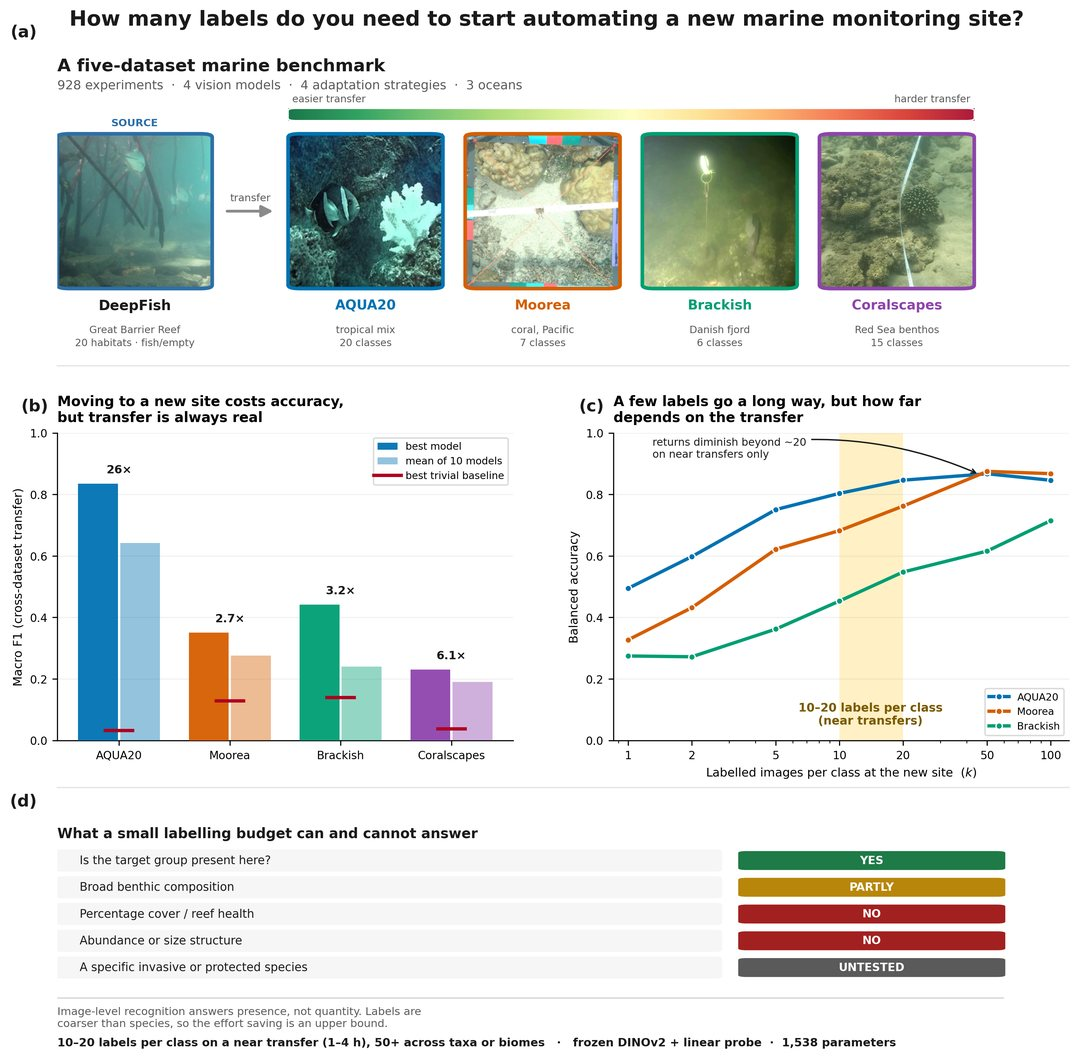
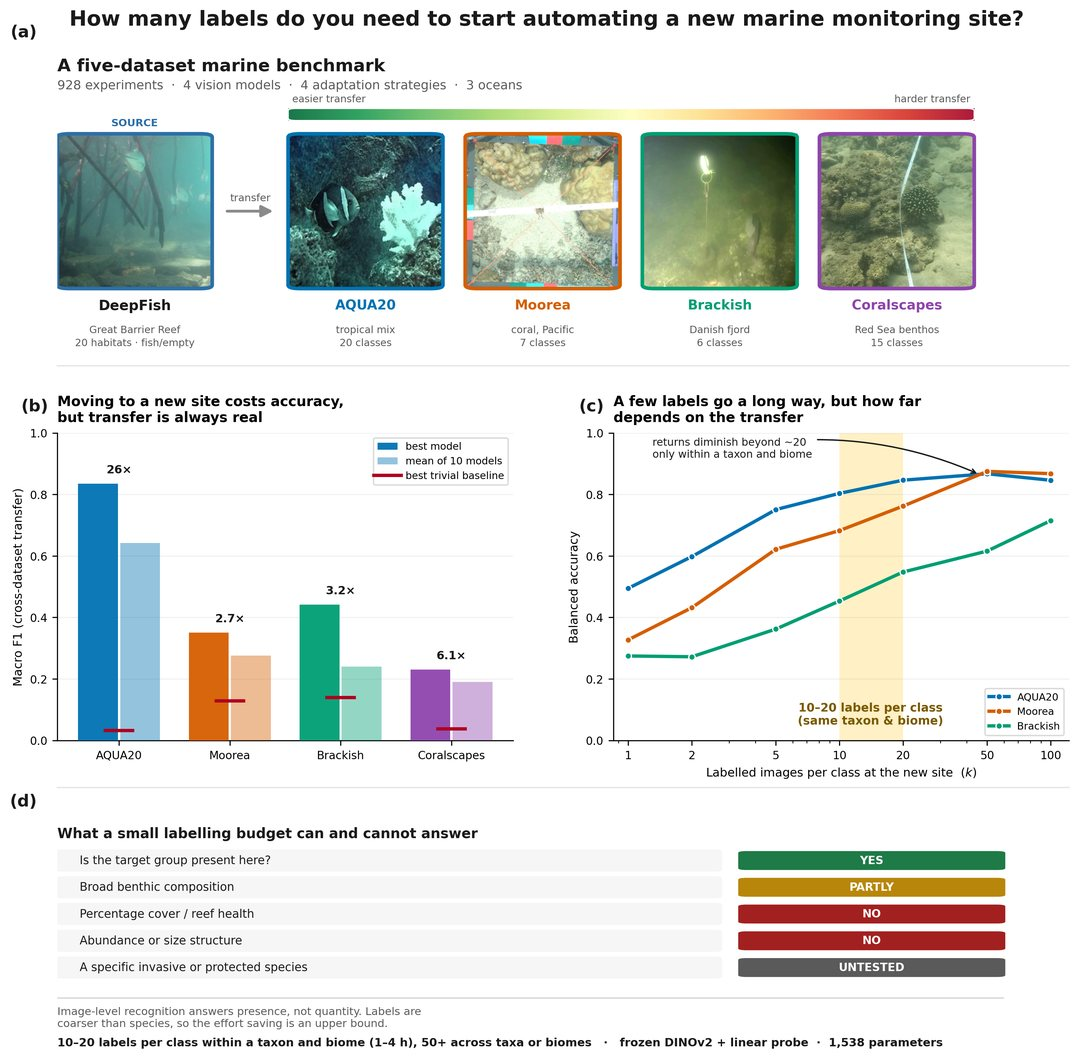
figures: use the paper's transfer-difficulty vocabulary in the graphical abstract
The panel annotations and footer banner described the labelling budget in terms
of 'near' and 'distant' transfers, terms that appear nowhere else and are never
defined. Section 2.1 already frames the difficulty gradient as same-taxon,
cross-taxon and cross-biome, so use that instead.

Changed region(s): [[0.1835, 0.9615, 0.8563, 0.9925], [0.734, 0.6513, 0.8869, 0.6823], [0.6117, 0.4032, 0.7646, 0.4342]]

diff --git a/figures/graphical_abstract_full.py b/figures/graphical_abstract_full.py
@@ -267,7 +267,7 @@ def panel_c(ax, pc):
                 label=lab.split("\n")[0])
 
     ax.axvspan(10, 20, color="#FFD24D", alpha=0.32, lw=0, zorder=0)
-    ax.text(14, 0.045, "10–20 labels per class\n(near transfers)", ha="center", va="bottom",
+    ax.text(14, 0.045, "10–20 labels per class\n(same taxon & biome)", ha="center", va="bottom",
             fontsize=8.4, fontweight="bold", color="#7A5A00", zorder=4)
 
     ax.set_xscale("log"); ax.set_xticks(K_VALUES)
@@ -280,7 +280,7 @@ def panel_c(ax, pc):
     ax.legend(fontsize=7.2, loc="lower right", framealpha=0.94, edgecolor=RULE)
     ax.spines["top"].set_visible(False); ax.spines["right"].set_visible(False)
     ax.grid(axis="y", alpha=0.22, lw=0.6); ax.tick_params(labelsize=8)
-    ax.annotate("returns diminish beyond ~20\non near transfers only", xy=(46, 0.865),
+    ax.annotate("returns diminish beyond ~20\nonly within a taxon and biome", xy=(46, 0.865),
                 xytext=(1.3, 0.985), fontsize=7.6, color=INK, va="top",
                 arrowprops=dict(arrowstyle="->", color=INK, lw=1.0,
                                 connectionstyle="arc3,rad=-0.16"))
@@ -315,8 +315,8 @@ def panel_d(ax):
                      "Labels are\ncoarser than species, so the effort saving is an "
                      "upper bound.",
             fontsize=7.8, color=MUTED, va="top")
-    ax.text(0, 0.72, "10–20 labels per class on a near transfer (1–4 h), 50+ across taxa "
-                     "or biomes   ·   frozen DINOv2 + linear probe  ·  1,538 parameters",
+    ax.text(0, 0.72, "10–20 labels per class within a taxon and biome (1–4 h), 50+ across "
+                     "taxa or biomes   ·   frozen DINOv2 + linear probe  ·  1,538 parameters",
             fontsize=8.2, color=INK, va="top", fontweight="bold")
 
 

diff --git a/README.md b/README.md
@@ -8,7 +8,7 @@ Code for reproducing the experiments in:
 
 <p align="center">
   <img src="docs/graphical_abstract.jpg" width="100%"
-       alt="Four-panel summary. (a) A Great Barrier Reef fish dataset is transferred to four other marine datasets ordered by difficulty. (b) Every transfer beats uniform-random and majority-class baselines, by 2.7x to 26x. (c) Balanced accuracy against labelled images per class, with 10 to 20 marked as the recommended budget for near transfers. (d) A table of which monitoring questions a small labelling budget can and cannot answer.">
+       alt="Four-panel summary. (a) A Great Barrier Reef fish dataset is transferred to four other marine datasets ordered by difficulty. (b) Every transfer beats uniform-random and majority-class baselines, by 2.7x to 26x. (c) Balanced accuracy against labelled images per class, with 10 to 20 marked as the recommended budget within a taxon and biome. (d) A table of which monitoring questions a small labelling budget can and cannot answer.">
 </p>
 
 <sub>Sample images are drawn from the five public datasets described below and are reproduced under their original licences.</sub>
